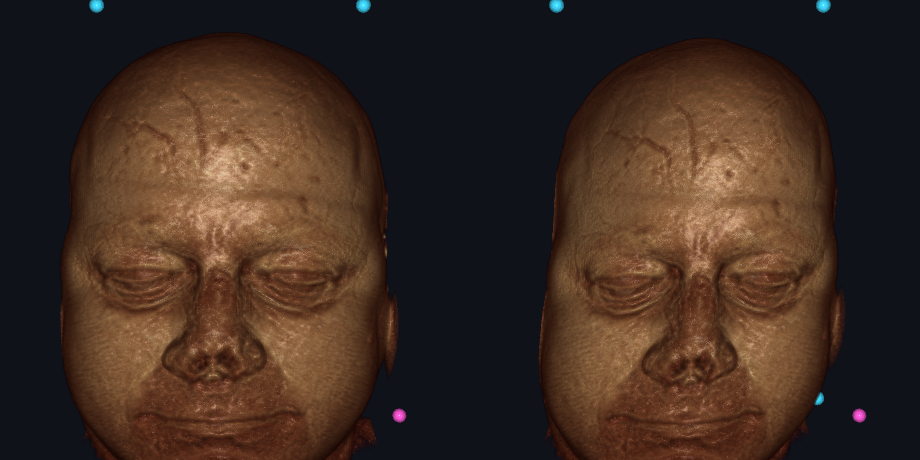
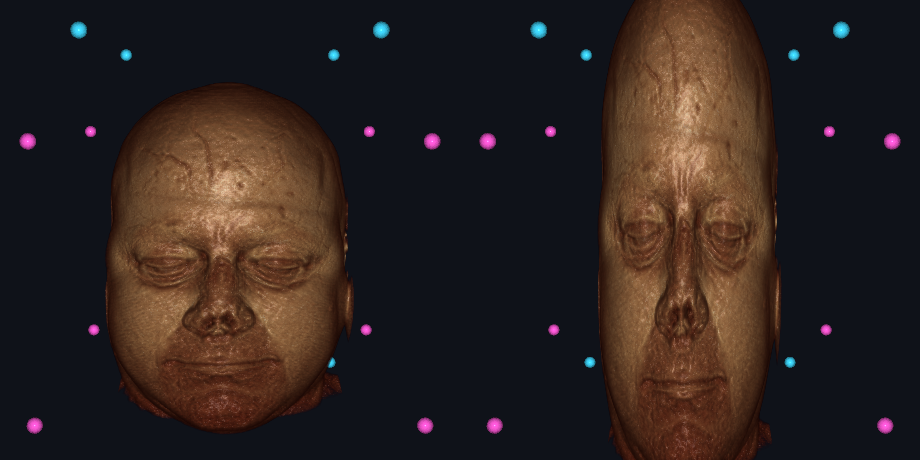
gallery: dramatic TPS deformation thumbnail

diff --git a/webgpu/deform.js b/webgpu/deform.js
@@ -942,8 +942,14 @@ function boundsCorners(lo, hi) {
 }
 function defaultTargets(sources) {
   const t = sources.map((c) => [...c]);
-  t[7] = [t[7][0] + 55, t[7][1] + 25, t[7][2] + 20];
-  t[0] = [t[0][0] - 30, t[0][1] - 10, t[0][2] - 15];
+  const STRETCH_S = 62;
+  const SQUEEZE_R = 30;
+  for (let i = 0; i < 8; i++) {
+    const top = i >= 4;
+    const rHi = (i & 1) === 1;
+    t[i][2] += top ? -STRETCH_S : STRETCH_S * 0.45;
+    t[i][0] += rHi ? SQUEEZE_R : -SQUEEZE_R;
+  }
   return t;
 }
 async function buildDeformScene(dev, sceneUrl = "https://pieper.github.io/live/legacy/scenes/MRHead.json", onBytes) {
@@ -1077,7 +1083,7 @@ async function main() {
   scene.build([sc.warp, sc.image, sc.fiducials]);
   scene.setBackground(0.06, 0.07, 0.1);
   const { center, radius } = sc.sv;
-  let az = Math.PI, el = 0.12, dist = radius * 2.6;
+  let az = Math.PI, el = 0.12, dist = radius * 3.5;
   const eyeAt = () => {
     const o = orbitEye(az, el, dist);
     return [center[0] + o[0], center[1] + o[1], center[2] + o[2]];